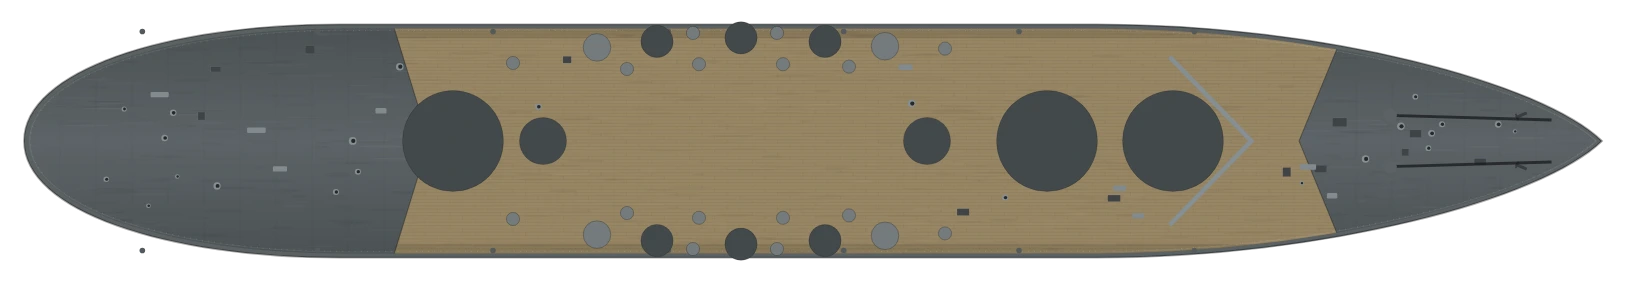
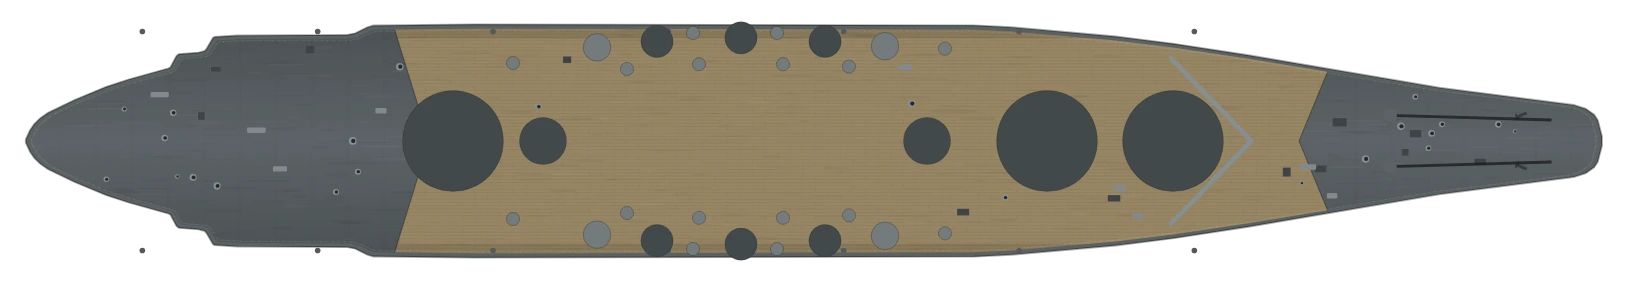
Yamato: the hull traced from the owner's plan drawing (outline), art baked again; shot_art takes LIST to picture a list
Claude-Session: https://claude.ai/code/session_0112riLEXGWyNCupwitxY8jz

diff --git a/index.html b/index.html
@@ -408,7 +408,9 @@ const DESIGN_LIST = [
     // after the owner's picture (12 Nov 2026): steel fore and aft with teak between, a fine wedge of a bow, the guns further
     // aft, and the great round superstructure ringed with 5-inch and AA mounts. Slots keep their count and order (saved
     // fits are by index): the new AA mounts are added at the end.
-    p: { bow: .32, run: .2, bowK: [0.5, 0.45], stern: 'c', teak: [-70, 89, 6, -8], house: [[-14, 50, 24]], sup: [[-6, 26, 19, 6], [-30, 14, 13, 3]], fun: [[-20, 5.8, 4.4]], mast: [[-32, 'p']], boats: [[-80, 2]], cat: [[-112, -8], [-112, 8]], crane: [[-122, 0]],
+    // the hull traced from the owner's plan drawing (12 Nov 2026): the long fine bow, the steps down to the quarterdeck
+    p: { outline: [[131.5, 0.75], [130.8, 3.47], [130.2, 4.39], [128.8, 5.38], [126.8, 6.02], [104.4, 8.89], [72.6, 14.29], [60.2, 16.2], [50.5, 17.42], [33.1, 18.97], [26.8, 19.28], [-56.5, 19.44], [-73.3, 19.25], [-74.3, 18.96], [-76.3, 17.95], [-77.6, 17.7], [-96, 17.59], [-99.7, 17.37], [-100, 17.21], [-101.1, 15.34], [-101.4, 15.01], [-102.4, 14.74], [-105.7, 14.49], [-106.1, 14.17], [-107.1, 12.29], [-107.4, 12.12], [-114.1, 10.25], [-117.8, 9.03], [-123.1, 6.83], [-127.5, 4.71], [-128.8, 3.81], [-129.8, 2.82], [-130.5, 1.79], [-131.2, 0.3]],
+      bow: .32, run: .2, bowK: [0.5, 0.45], stern: 'c', teak: [-70, 89, 6, -8], house: [[-14, 50, 24]], sup: [[-6, 26, 19, 6], [-30, 14, 13, 3]], fun: [[-20, 5.8, 4.4]], mast: [[-32, 'p']], boats: [[-80, 2]], cat: [[-112, -8], [-112, 8]], crane: [[-122, 0]],
       tubs: [[8, 12, 1.6], [8, -12, 1.6], [-40, 12, 1.6], [-40, -12, 1.6]] },
     slots: [sl('H', 60, 0, FWD, 'g460'), sl('H', 39, 0, FWD, 'g460'), sl('H', -60, 0, AFT, 'g460'), sl('M', 19, 0, FWD, 'g152'), sl('M', -45, 0, AFT, 'g152'), ...pair('M', 2, 16.6, 'g127'), ...pair('M', -12, 17.2, 'g127'), ...pair('M', -26, 16.6, 'g127'), ...pair('A', 12, 15.8, 'aa40'), ...pair('A', -36, 15.6, 'aa40'), ...pair('A', -50, 13, 'aa20'),
       ...pair('A', 6, 12.4, 'aa20'), ...pair('A', -5, 12.8, 'aa20'), ...pair('A', -19, 12.8, 'aa20'), ...pair('A', -31, 12, 'aa20'), ...pair('A', 22, 15.4, 'aa20'), ...pair('A', -6, 18, 'aa20'), ...pair('A', -20, 18, 'aa20')] },

diff --git a/src/game.html b/src/game.html
@@ -405,7 +405,9 @@ const DESIGN_LIST = [
     // after the owner's picture (12 Nov 2026): steel fore and aft with teak between, a fine wedge of a bow, the guns further
     // aft, and the great round superstructure ringed with 5-inch and AA mounts. Slots keep their count and order (saved
     // fits are by index): the new AA mounts are added at the end.
-    p: { bow: .32, run: .2, bowK: [0.5, 0.45], stern: 'c', teak: [-70, 89, 6, -8], house: [[-14, 50, 24]], sup: [[-6, 26, 19, 6], [-30, 14, 13, 3]], fun: [[-20, 5.8, 4.4]], mast: [[-32, 'p']], boats: [[-80, 2]], cat: [[-112, -8], [-112, 8]], crane: [[-122, 0]],
+    // the hull traced from the owner's plan drawing (12 Nov 2026): the long fine bow, the steps down to the quarterdeck
+    p: { outline: [[131.5, 0.75], [130.8, 3.47], [130.2, 4.39], [128.8, 5.38], [126.8, 6.02], [104.4, 8.89], [72.6, 14.29], [60.2, 16.2], [50.5, 17.42], [33.1, 18.97], [26.8, 19.28], [-56.5, 19.44], [-73.3, 19.25], [-74.3, 18.96], [-76.3, 17.95], [-77.6, 17.7], [-96, 17.59], [-99.7, 17.37], [-100, 17.21], [-101.1, 15.34], [-101.4, 15.01], [-102.4, 14.74], [-105.7, 14.49], [-106.1, 14.17], [-107.1, 12.29], [-107.4, 12.12], [-114.1, 10.25], [-117.8, 9.03], [-123.1, 6.83], [-127.5, 4.71], [-128.8, 3.81], [-129.8, 2.82], [-130.5, 1.79], [-131.2, 0.3]],
+      bow: .32, run: .2, bowK: [0.5, 0.45], stern: 'c', teak: [-70, 89, 6, -8], house: [[-14, 50, 24]], sup: [[-6, 26, 19, 6], [-30, 14, 13, 3]], fun: [[-20, 5.8, 4.4]], mast: [[-32, 'p']], boats: [[-80, 2]], cat: [[-112, -8], [-112, 8]], crane: [[-122, 0]],
       tubs: [[8, 12, 1.6], [8, -12, 1.6], [-40, 12, 1.6], [-40, -12, 1.6]] },
     slots: [sl('H', 60, 0, FWD, 'g460'), sl('H', 39, 0, FWD, 'g460'), sl('H', -60, 0, AFT, 'g460'), sl('M', 19, 0, FWD, 'g152'), sl('M', -45, 0, AFT, 'g152'), ...pair('M', 2, 16.6, 'g127'), ...pair('M', -12, 17.2, 'g127'), ...pair('M', -26, 16.6, 'g127'), ...pair('A', 12, 15.8, 'aa40'), ...pair('A', -36, 15.6, 'aa40'), ...pair('A', -50, 13, 'aa20'),
       ...pair('A', 6, 12.4, 'aa20'), ...pair('A', -5, 12.8, 'aa20'), ...pair('A', -19, 12.8, 'aa20'), ...pair('A', -31, 12, 'aa20'), ...pair('A', 22, 15.4, 'aa20'), ...pair('A', -6, 18, 'aa20'), ...pair('A', -20, 18, 'aa20')] },
